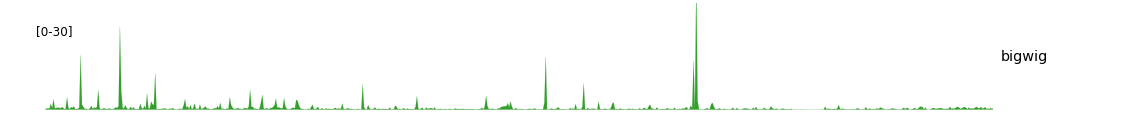
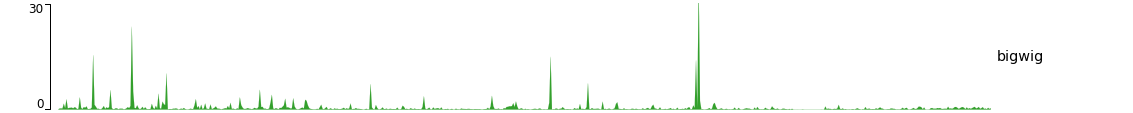
added small separation between y-axis and main plot.  Updated example images and test images after the change

diff --git a/pygenometracks/tracksClass.py b/pygenometracks/tracksClass.py
@@ -204,7 +204,7 @@ class PlotTracks(object):
 
         grids = matplotlib.gridspec.GridSpec(len(track_height), 3,
                                              height_ratios=track_height,
-                                             width_ratios=self.width_ratios)
+                                             width_ratios=self.width_ratios, wspace=0.01)
         axis_list = []
         # skipped_tracks is the count of tracks that have the
         # 'overlay previous' parameter and should be skipped
